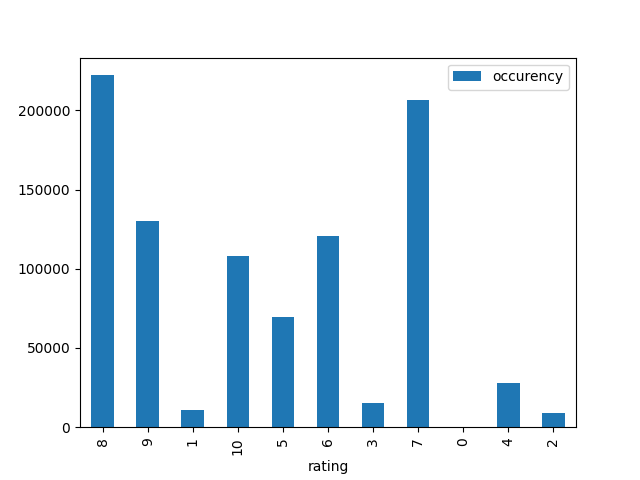
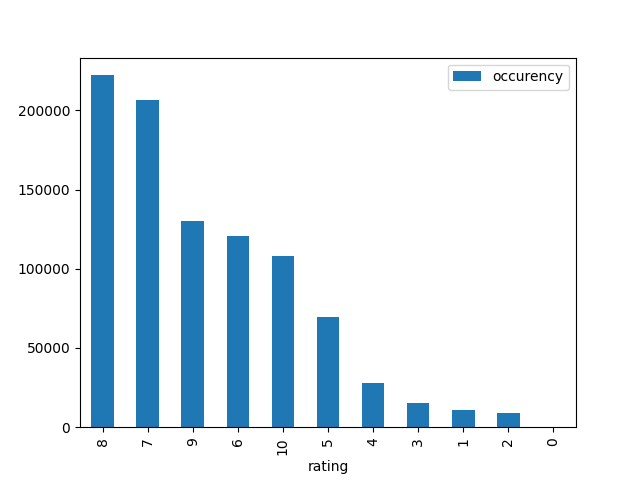
forget to sort distribution by percentage

diff --git a/src/tasksMaking.py b/src/tasksMaking.py
@@ -25,6 +25,7 @@ class TaskMaker():
         distribution["occurency"] = distribution["rating"].map(self.__ratingsDF['rating'].value_counts())
         #Count but return percentage when multiply by 100 the value
         distribution["percentage"] = distribution["rating"].map(self.__ratingsDF['rating'].value_counts(normalize=True) * 100)
+        distribution = distribution.sort_values(by=["percentage"], ascending=False)
         saveTaskResult("../output/firstTasks/1-3-4.txt", distribution, "Distribution de notes:\n")
         savePlot("../output/firstTasks/plotOccurency.png", distribution.plot(x="rating", y="occurency", kind="bar"))
         savePlot("../output/firstTasks/plotPercentage.png", distribution.plot(x="rating", y="percentage", kind="bar"))
